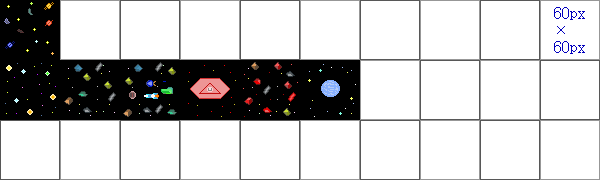
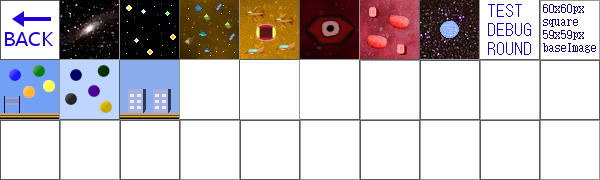
ver 0.37.3 - 라운드 선택 방식 보완, 이미지 출력 추가
며칠동안 휴식하느라(전장도 하면서...) 다음 업데이트까지 시간이 오래 걸렸습니다.
이번 버전부터는 커밋 메세지에 버전과 제목을 표시하고, 날짜는 삭제할 예정입니다.
[어차피 커밋 날짜를 볼 수 있으므로, 굳이 적을 필요가 없음]
<단, 업데이트 내용은 그대로 작성합니다.>

1. 라운드 선택 화면이 약간 변경되었습니다.
2. 각 라운드 기호에 해당하는 이미지가 추가되었습니다.
[아직 기능이 제대로 완성되지 않았으며 추가 업데이트를 할 예정입니다.]

diff --git a/js/tamshooter4.js b/js/tamshooter4.js
@@ -7,6 +7,7 @@ import { ID } from "./dataId.js";
 import { gameVar, userSystem } from "./game.js";
 import { fieldSystem } from "./field.js";
 import { game, gameFunction } from "./game.js";
+import { GraphicSystem } from "./tamsaEngine/graphic.js";
 
 let digitalDisplay = gameFunction.digitalDisplay
 
@@ -681,29 +682,66 @@ class OptionSystem extends MenuSystem {
  * 메뉴: 라운드 시스템
  */
 class RoundSelectSystem extends MenuSystem {
-  CURSORMODE_MAIN = 1
-  CURSORMODE_SUB = 2
+  /** 커서모드: 뒤로가기 이동용도 (커서포지션 범위: 0 ~ 9, 단 이 범위 사이에서는 0번으로만 이동함) */ CURSORMODE_BACK = 3
+  /** 커서모드: 메인라운드 선택 (커서포지션 범위: 10 ~ 19) */ CURSORMODE_MAIN = 1
+  /** 커서모드: 서브라운드 선택 (예를들어, 1-4면, 1이 메인, 4가 서브라운드임, 커서포지션 범위: 20 ~ 39) */ CURSORMODE_SUB = 2
 
-  /** 커서 라운드 */ cursorRound = 1
-  /** 커서 서브 라운드 */ cursorSubRound = 1
+  CURSOR_POSITION_START_BACK = 0
+  /** 커서포지션을 계산할 때 main모드일경우 어느 지점부터 시작하는지에 대한 상수 값 */ CURSOR_POSITION_START_MAIN = 10
+  /** 커서포지션을 계산할 때 sub모드일경우 어느 지점부터 시작하는지에 대한 상수 값 */ CURSOR_POSITION_START_SUB = 20
+
+  /** 커서 라운드 */ cursorRound = 0
+  /** 커서 서브 라운드 */ cursorSubRound = 0
   /** 커서 모드 */ cursorMode = this.CURSORMODE_MAIN
   /** 최소 라운드: 게임은 1라운드부터 시작 */ MIN_ROUND = 1
   /** 최대 라운드: 8 */ MAX_ROUND = 8
   roundIcon = imageSrc.roundIcon
-  roundIconData = { width: 60, height: 60 }
+  roundIconSize = { width: 59, height: 59 }
 
 
   constructor () {
     super()
-    this.menuList.push(new BoxObject(10, 0, 60, 60, '<<', 'orange', 'yellow'))
-    for (let i = 1; i <= 9; i++) {
-      this.menuList.push(new BoxObject(10 + (i * 80), 0, 60, 60, i + '', 'orange', 'gold'))
+
+    let r = ID.round
+    const unused = ID.round.UNUSED
+    this.roundIdTable = {
+      r1: [r.round1_1, r.round1_2, r.round1_3, r.round1_4, r.round1_5, r.round1_6, unused, unused, r.round1_test, unused],
+      r2: [r.round2_1, r.round2_2, r.round2_3, r.round2_4, r.round2_5, r.round2_6, unused, unused, unused, unused]
     }
-    for (let i = 1; i <= 10; i++) {
-      this.menuList.push(new BoxObject(10 + ((i - 1) * 80), 80, 60, 60, '1-' + i, 'skyblue', 'white'))
+
+    this.roundWorldIconNumber = [1, 10]
+
+    this.roundIconTable = {
+      r1: [2, 3, 4, 5, 6, 7, -1, -1, 8, -1],
+      r2: [11, 12, -1, -1, -1, -1, -1, -1, -1, -1]
     }
-    for (let i = 0; i <= 5; i++) {
-      this.menuList.push(new BoxObject(10 + ((i - 1) * 80), 160, 60, 60, '1-A' + i, 'skyblue', 'white'))
+
+    const layerX = 10
+    const layer1Y = 10
+    const layerWidth = 60
+    const layerHeight = 60
+
+    // 0: back
+    this.menuList.push(new BoxObject(layerX, layer1Y, layerWidth, layerHeight, '<<', 'orange', 'yellow'))
+
+    // 10 ~ 19: worldRound
+    const layer2Y = 80 + 10
+    const layerSection = 80
+    for (let i = 0; i <= 9; i++) {
+      this.menuList[i + 10] = new BoxObject(layerX + (i * layerSection), layer2Y, layerWidth, layerHeight, '', 'orange', 'gold')
+    }
+
+    // 20 ~ 29: mainRound 
+    const layer3Y = 160 + 10
+    for (let i = 0; i <= 9; i++) {
+      // 맨 끝번부터 추가되기 때문에 push나, this.menuList[i + 20] 이나 똑같이 동작함.
+      this.menuList.push(new BoxObject(layerX + (i * layerSection), layer3Y, layerWidth, layerHeight, '', 'skyblue', 'white'))
+    }
+
+    // 30 ~ 39: subRound
+    const layer4Y = 240 + 10
+    for (let i = 0; i <= 9; i++) {
+      this.menuList.push(new BoxObject(layerX + (i * layerSection), layer4Y, layerWidth, layerHeight, '', 'skyblue', 'white'))
     }
 
     this.backgroundColor = ['#757F9A', '#D7DDE8']
@@ -717,26 +755,42 @@ class RoundSelectSystem extends MenuSystem {
     const buttonDown = game.control.getButtonInput(game.control.buttonIndex.DOWN)
     const buttonLeft = game.control.getButtonInput(game.control.buttonIndex.LEFT)
     const buttonRight = game.control.getButtonInput(game.control.buttonIndex.RIGHT)
+    const leftEnd = 0
+    const rightEnd = 9
 
-    if (this.cursorMode === this.CURSORMODE_MAIN) {
+    if (this.cursorMode === this.CURSORMODE_BACK) {
+      if (buttonDown) {
+        this.cursorMode = this.CURSORMODE_MAIN
+        game.sound.play(soundSrc.system.systemCursor)
+      }
+    } else if (this.cursorMode === this.CURSORMODE_MAIN) {
       if (buttonDown) {
         this.selected = true
-      } else if (buttonLeft && this.cursorRound > 0) {
+      } else if (buttonLeft && this.cursorRound > leftEnd) {
         this.cursorRound--
         game.sound.play(soundSrc.system.systemCursor)
-      } else if (buttonRight && this.cursorRound < this.MAX_ROUND) {
+      } else if (buttonRight && this.cursorRound < rightEnd) {
         this.cursorRound++
+        game.sound.play(soundSrc.system.systemCursor)
+      } else if (buttonUp) {
+        this.cursorMode = this.CURSORMODE_BACK
         game.sound.play(soundSrc.system.systemCursor)
       }
     } else if (this.cursorMode === this.CURSORMODE_SUB) {
-      if (buttonLeft && this.cursorSubRound > 0) {
+      if (buttonLeft && this.cursorSubRound % 10 > leftEnd) {
         this.cursorSubRound--
         game.sound.play(soundSrc.system.systemCursor)
-      } else if (buttonRight && this.cursorSubRound < 9) {
+      } else if (buttonRight && this.cursorSubRound % 10 < rightEnd) {
         this.cursorSubRound++
         game.sound.play(soundSrc.system.systemCursor)
-      } else if (buttonUp) {
+      } else if (buttonUp && this.cursorSubRound <= rightEnd) {
         this.canceled = true
+        game.sound.play(soundSrc.system.systemCursor)
+      } else if (buttonUp && this.cursorSubRound > rightEnd) {
+        this.cursorSubRound -= 10
+        game.sound.play(soundSrc.system.systemCursor)
+      } else if (buttonDown && this.cursorSubRound <= rightEnd) {
+        this.cursorSubRound += 10
         game.sound.play(soundSrc.system.systemCursor)
       }
     }
@@ -755,33 +809,45 @@ class RoundSelectSystem extends MenuSystem {
   }
 
   /**
+   * (키보드 조작용)
+   * 
    * 현재 커서 라운드와 모드와 서브라운드를 기준으로 커서포지션을 계산합니다.
    */
   cursorPositionCalcuration () {
-    if (this.cursorMode === this.CURSORMODE_MAIN) {
-      this.cursorPosition = this.cursorRound
+    if (this.cursorMode === this.CURSORMODE_BACK) {
+      // back 은 0번 위치에만 있습니다. (나머지 공간은 사용하지 않음)
+      this.cursorPosition = 0
+    } else if (this.cursorMode === this.CURSORMODE_MAIN) {
+      // 위치: 10 ~ 19
+      this.cursorPosition = this.cursorRound + 10
     } else if (this.cursorMode === this.CURSORMODE_SUB) {
-      this.cursorPosition = this.cursorSubRound + 10
+      // 위치: 20 ~ 39
+      this.cursorPosition = this.cursorSubRound + 20
     }
   }
 
   /**
+   * (마우스 조작용)
+   * 
    * 현재 커서포지션을 기준으로 커서의 라운드와 서브라운드와 모드를 계산합니다.
    */
   cursorRoundCalcuration () {
     if (this.cursorPosition <= 9) {
+      this.cursorMode = this.CURSORMODE_BACK
+      this.cursorPosition = 0
+    } else if (this.cursorPosition >= 10 && this.cursorPosition <= 19) {
       this.cursorMode = this.CURSORMODE_MAIN
-      this.cursorRound = this.cursorPosition
-    } else if (this.cursorPosition >= 10) {
+      this.cursorRound = this.cursorPosition - this.CURSOR_POSITION_START_MAIN
+    } else if (this.cursorPosition >= 20 && this.cursorPosition <= 39) {
       this.cursorMode = this.CURSORMODE_SUB
-      this.cursorSubRound = this.cursorPosition - 10
+      this.cursorSubRound = this.cursorPosition - this.CURSOR_POSITION_START_SUB
     }
   }
 
   processCancel () {
     if (!this.canceledCheck()) return
 
-    if (this.cursorMode === this.CURSORMODE_MAIN) {
+    if (this.cursorMode === this.CURSORMODE_BACK || this.cursorMode === this.CURSORMODE_MAIN) {
       gameSystem.stateId = gameSystem.STATE_MAIN
       game.sound.play(soundSrc.system.systemBack)
     } else if (this.cursorMode === this.CURSORMODE_SUB) {
@@ -793,36 +859,13 @@ class RoundSelectSystem extends MenuSystem {
   processSelect () {
     if (!this.selectedCheck()) return
 
-    // 임시로 라운드 테이블은 여기서 구현합니다.
-    // 나중에 data.js쪽에 옮겨질 예정
-    const roundTableId = [
-      ID.round.round1_1,
-      ID.round.round1_2,
-      ID.round.round1_3,
-      ID.round.round1_4,
-      ID.round.round1_5,
-      ID.round.round1_6,
-      ID.round.UNUSED,
-      ID.round.UNUSED,
-      ID.round.round1_test
-    ]
-
-    if (this.cursorMode === this.CURSORMODE_MAIN) {
-      if (this.cursorRound === 0) {
-        // 커서라운드가 0에 있으면 메인 메뉴로 되돌아갑니다.
-        this.canceled = true
-      } else {
-        this.cursorMode = this.CURSORMODE_SUB
-        game.sound.play(soundSrc.system.systemSelect)
-      }
+    if (this.cursorMode === this.CURSORMODE_BACK) {
+      this.canceled = true // 취소버튼을 누른것으로 처리
+    } if (this.cursorMode === this.CURSORMODE_MAIN) {
+      this.cursorMode = this.CURSORMODE_SUB
+      game.sound.play(soundSrc.system.systemSelect)
     } else if (this.cursorMode === this.CURSORMODE_SUB) {
-      // 없는 라운드 진행 불가능
-      if (roundTableId[this.cursorSubRound] === ID.round.UNUSED) return
-
-      // 라운드 설정 후 필드 진행
-      gameSystem.stateId = gameSystem.STATE_FIELD
-      fieldSystem.roundStart(roundTableId[this.cursorSubRound])
-      game.sound.play(soundSrc.system.systemEnter)
+      
     }
   }
 
@@ -830,21 +873,19 @@ class RoundSelectSystem extends MenuSystem {
     super.display()
     this.displayRound()
     this.displaySubRound()
-    this.displayWorld()
-    this.displayInfo()
-  }
-
-  displayMenu () {
-    // nohing
-    // 다른 display 함수에서 menuList[].display를 호출하기 때문에 중복으로 호출할 필요가 없음.
+    // this.displayWorld()
+    // this.displayInfo()
   }
 
   displayRound () {
-    for (let i = 0; i < 10; i++) {
+    // 10 ~ 19
+    for (let i = this.CURSOR_POSITION_START_MAIN; i < this.CURSOR_POSITION_START_MAIN + 9; i++) {
+      if (this.menuList[i] == null) continue
+
       // 참고: 선택된 라운드를 명확하게 표기하기 위하여, 현재 라운드가 선택되었다면(커서라운드가 서브모드)
       // 선택된 현재라운드와 서브라운드를 모두 표시하게 합니다.
       if (this.cursorMode === this.CURSORMODE_SUB) {
-        if (i === this.cursorRound) {
+        if (i === this.cursorRound + this.CURSOR_POSITION_START_MAIN) {
           this.menuList[i].focus = true
           this.menuList[i].focusColor = 'red'
         } else {
@@ -855,11 +896,79 @@ class RoundSelectSystem extends MenuSystem {
         this.menuList[i].focusColor = 'blue'
       }
 
-      this.menuList[i].display()
+      // 라운드 아이콘 월드 출력
+      let position = -1
+      let number = i - this.CURSOR_POSITION_START_MAIN
+      if (number < this.roundWorldIconNumber.length) {
+        position = this.roundWorldIconNumber[number]
+      }
+
+      this.menuList[i].display() // 박스 다시 재출력 (포커스 갱신한 후 출력해야 하기 때문)
+
+      if (position !== -1) {
+        const imageSize = 60 - 1 // 이미지의 크기
+        const imageSection = 60 // 이미지의 공간 (60x60의 공간중 59x59가 이미지 (나머지 공간은 확대/축소할 때 안티에일러싱 방지용))
+        const positionX = position % 10
+        const positionY = Math.floor(position / 10) 
+        game.graphic.imageDisplay(imageSrc.roundIcon, positionX * imageSection, positionY * imageSection, imageSize, imageSize, this.menuList[i].x, this.menuList[i].y, imageSize, imageSize)
+      }
+
+      // 이미지에 가려져서 무엇이 선택되었는지 알기 어려우므로, 따로 사격형을 먼저 칠합니다.
+      const rectPlusSize = 5
+      if (number === this.cursorRound) {
+        game.graphic.fillRect(
+          this.menuList[i].x - rectPlusSize, 
+          this.menuList[i].y - rectPlusSize,
+          this.menuList[i].width + (rectPlusSize * 2),
+          this.menuList[i].height + (rectPlusSize * 2), 
+          'darkblue',
+          0.3
+        )
+      }
+    }
+  }
+
+  getCurrentRoundIconTable () {
+    switch (this.cursorRound) {
+      case 0: return this.roundIconTable.r1
+      case 1: return this.roundIconTable.r2
+      default: return []
     }
   }
 
   displaySubRound () {
+    for (let i = this.CURSOR_POSITION_START_SUB; i < this.CURSOR_POSITION_START_SUB + 19; i++) {
+      let position = -1
+      let number = i - this.CURSOR_POSITION_START_SUB
+      let getIdTable = this.getCurrentRoundIconTable()
+
+      if (number < getIdTable.length) {
+        position = getIdTable[number]
+      }
+
+      if (position !== -1) {
+        const imageSize = 60 - 1 // 이미지의 크기
+        const imageSection = 60 // 이미지의 공간 (60x60의 공간중 59x59가 이미지 (나머지 공간은 확대/축소할 때 안티에일러싱 방지용))
+        const positionX = position % 10
+        const positionY = Math.floor(position / 10) 
+        game.graphic.imageDisplay(imageSrc.roundIcon, positionX * imageSection, positionY * imageSection, imageSize, imageSize, this.menuList[i].x, this.menuList[i].y, imageSize, imageSize)
+      }
+
+      // 이미지에 가려져서 무엇이 선택되었는지 알기 어려우므로, 따로 사격형을 먼저 칠합니다.
+      const rectPlusSize = 5
+      if (this.cursorMode === this.CURSORMODE_SUB && number === this.cursorSubRound) {
+        game.graphic.fillRect(
+          this.menuList[i].x - rectPlusSize, 
+          this.menuList[i].y - rectPlusSize,
+          this.menuList[i].width + (rectPlusSize * 2),
+          this.menuList[i].height + (rectPlusSize * 2), 
+          'blue',
+          0.4
+        )
+      }
+    }
+
+    return
     for (let i = 10, n = 0; i <= 25; i++, n++) {
       this.menuList[i].display()
       const iconNumberX = i - 10
@@ -871,10 +980,10 @@ class RoundSelectSystem extends MenuSystem {
       // 각 라운드 아이콘의 이미지 출력
       game.graphic.imageDisplay(
         this.roundIcon, 
-        iconNumberX * this.roundIconData.width, 
-        1 * this.roundIconData.height, 
-        this.roundIconData.width, 
-        this.roundIconData.height, 
+        iconNumberX * this.roundIconSize.width, 
+        1 * this.roundIconSize.height, 
+        this.roundIconSize.width, 
+        this.roundIconSize.height, 
         this.menuList[i].x, 
         this.menuList[i].y,
         this.menuList[i].width,

diff --git a/test.js b/test.js
@@ -1,6 +1,4 @@
 import { dataExportStatPlayerSkill, dataExportStatPlayerWeapon, dataExportStatWeapon } from "./js/dataStat.js"
-import { imageFile } from "./js/image.js"
-import { graphicSystem } from "./js/graphic.js"
 
 let pre = document.getElementById('pre')
 let element = document.createElement('pre')
